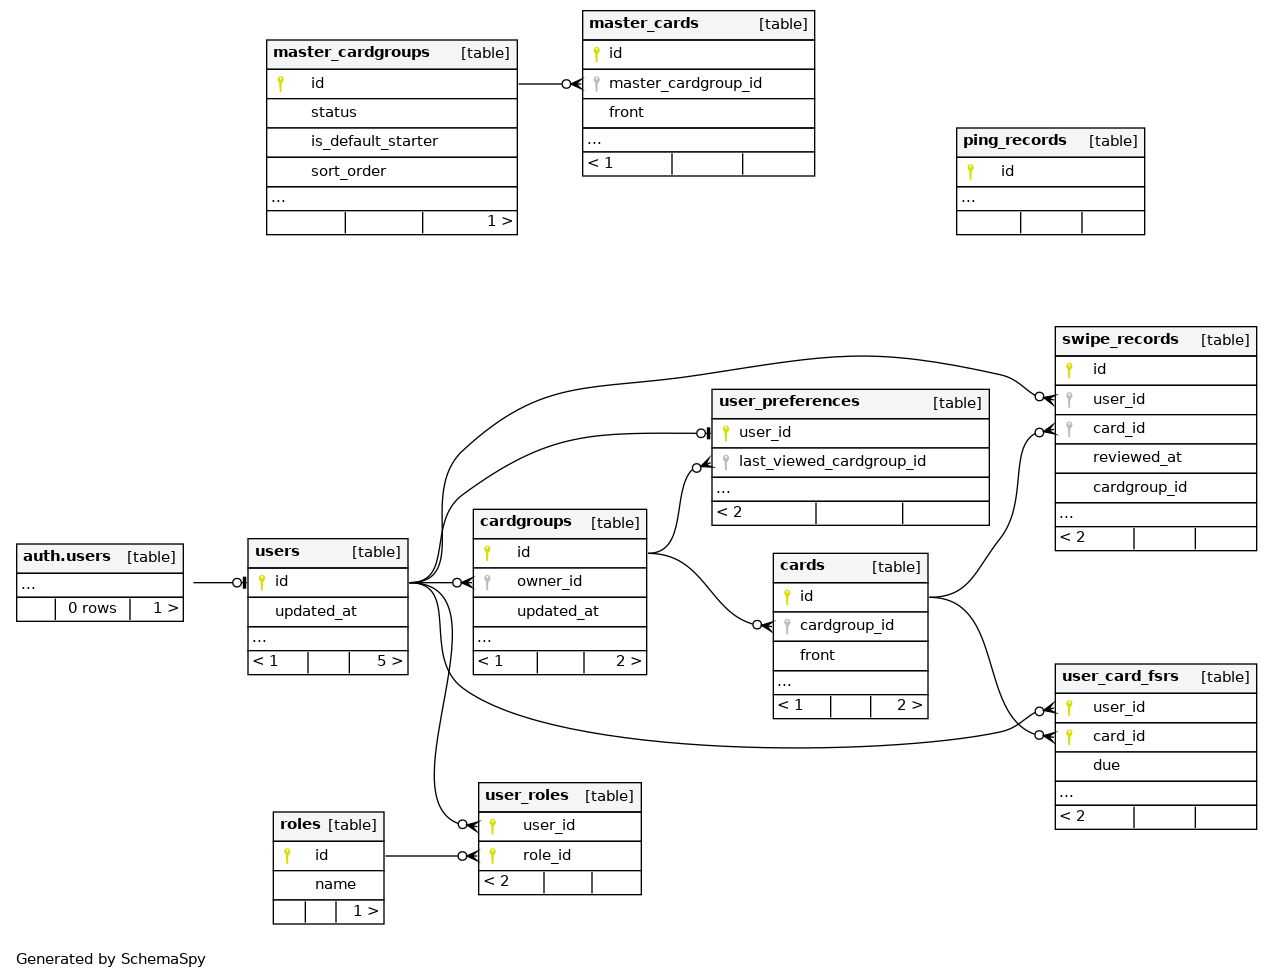
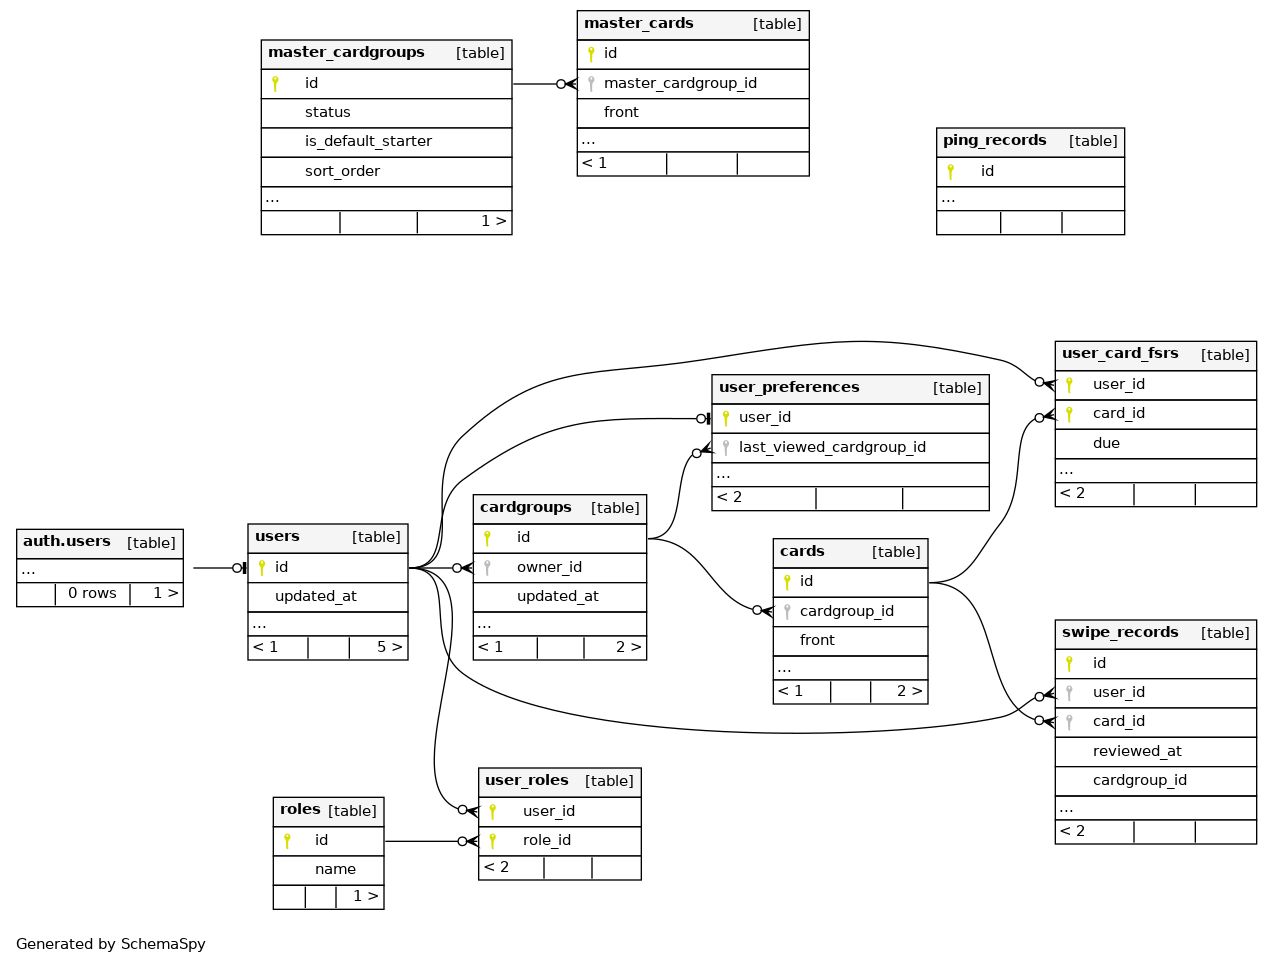
Deploying to gh-pages from @ yasuflatland-lf/flamingo-armond@d6e6fe769e655b9c6e9261a720e0daf4bc2132be 🚀

diff --git a/er-chart/relationships.html b/er-chart/relationships.html
@@ -93,35 +93,35 @@
                                 <div class="tab-content no-padding">
                                     <div class="chart tab-pane active" id="compactDegreeImg-chart" style="position: relative; overflow-x:auto;">
                                         <map id="compactRelationshipsDiagram" name="compactRelationshipsDiagram">
-<area shape="rect" id="node1" href="tables/master_cardgroups.html" target="_top" title="master_cardgroups" alt="" coords="256,35,528,240">
-<area shape="rect" id="node2" href="tables/cardgroups.html" target="_top" title="cardgroups" alt="" coords="463,504,657,680">
-<area shape="rect" id="node8" href="tables/users.html" target="_top" title="users" alt="" coords="237,533,419,680">
-<area shape="rect" id="node3" href="tables/roles.html" target="_top" title="roles" alt="" coords="262,807,394,929">
-<area shape="rect" id="node4" href="tables/user_card_fsrs.html" target="_top" title="user_card_fsrs" alt="" coords="1044,659,1267,835">
-<area shape="rect" id="node9" href="tables/cards.html" target="_top" title="cards" alt="" coords="763,548,939,724">
-<area shape="rect" id="node5" href="tables/swipe_records.html" target="_top" title="swipe_records" alt="" coords="1044,321,1267,556">
-<area shape="rect" id="node6" href="tables/user_preferences.html" target="_top" title="user_preferences" alt="" coords="701,384,1000,531">
-<area shape="rect" id="node7" href="tables/master_cards.html" target="_top" title="master_cards" alt="" coords="572,5,825,181">
-<area shape="rect" id="node12" title="auth.users" alt="" coords="5,539,193,627">
-<area shape="rect" id="node10" href="tables/ping_records.html" target="_top" title="ping_records" alt="" coords="945,123,1155,240">
-<area shape="rect" id="node11" href="tables/user_roles.html" target="_top" title="user_roles" alt="" coords="468,777,652,900">
+<area shape="rect" id="node1" href="tables/master_cardgroups.html" target="_top" title="master_cardgroups" alt="" coords="251,35,523,240">
+<area shape="rect" id="node2" href="tables/cardgroups.html" target="_top" title="cardgroups" alt="" coords="463,489,657,665">
+<area shape="rect" id="node8" href="tables/users.html" target="_top" title="users" alt="" coords="237,519,419,665">
+<area shape="rect" id="node3" href="tables/roles.html" target="_top" title="roles" alt="" coords="262,792,394,915">
+<area shape="rect" id="node4" href="tables/swipe_records.html" target="_top" title="swipe_records" alt="" coords="1044,615,1267,849">
+<area shape="rect" id="node9" href="tables/cards.html" target="_top" title="cards" alt="" coords="763,533,939,709">
+<area shape="rect" id="node5" href="tables/user_card_fsrs.html" target="_top" title="user_card_fsrs" alt="" coords="1044,336,1267,512">
+<area shape="rect" id="node6" href="tables/user_preferences.html" target="_top" title="user_preferences" alt="" coords="701,369,1000,516">
+<area shape="rect" id="node7" href="tables/master_cards.html" target="_top" title="master_cards" alt="" coords="567,5,820,181">
+<area shape="rect" id="node12" title="auth.users" alt="" coords="5,524,193,612">
+<area shape="rect" id="node10" href="tables/ping_records.html" target="_top" title="ping_records" alt="" coords="925,123,1135,240">
+<area shape="rect" id="node11" href="tables/user_roles.html" target="_top" title="user_roles" alt="" coords="468,763,652,885">
 </map>
                                         <a name='diagram'><img id="compactDegreeImg" src="diagrams/summary/relationships.real.compact.png" usemap="#compactRelationshipsDiagram" class="diagram" border="0" align="left"></a>
                                     </div>
                                     <div class="chart tab-pane " id="largeDegreeImg-chart" style="position: relative; overflow-x:auto;">
                                         <map id="largeRelationshipsDiagram" name="largeRelationshipsDiagram">
 <area shape="rect" id="node1" href="tables/master_cardgroups.html" target="_top" title="master_cardgroups" alt="" coords="5,35,277,509">
-<area shape="rect" id="node2" href="tables/cardgroups.html" target="_top" title="cardgroups" alt="" coords="463,899,657,1109">
-<area shape="rect" id="node8" href="tables/users.html" target="_top" title="users" alt="" coords="237,928,419,1197">
-<area shape="rect" id="node3" href="tables/roles.html" target="_top" title="roles" alt="" coords="262,1297,394,1420">
-<area shape="rect" id="node4" href="tables/user_card_fsrs.html" target="_top" title="user_card_fsrs" alt="" coords="1044,1184,1267,1629">
-<area shape="rect" id="node9" href="tables/cards.html" target="_top" title="cards" alt="" coords="763,945,939,1215">
-<area shape="rect" id="node5" href="tables/swipe_records.html" target="_top" title="swipe_records" alt="" coords="1044,656,1267,1160">
-<area shape="rect" id="node6" href="tables/user_preferences.html" target="_top" title="user_preferences" alt="" coords="701,747,1000,928">
+<area shape="rect" id="node2" href="tables/cardgroups.html" target="_top" title="cardgroups" alt="" coords="463,888,657,1099">
+<area shape="rect" id="node8" href="tables/users.html" target="_top" title="users" alt="" coords="237,917,419,1187">
+<area shape="rect" id="node3" href="tables/roles.html" target="_top" title="roles" alt="" coords="262,1287,394,1409">
+<area shape="rect" id="node4" href="tables/swipe_records.html" target="_top" title="swipe_records" alt="" coords="1044,1144,1267,1648">
+<area shape="rect" id="node9" href="tables/cards.html" target="_top" title="cards" alt="" coords="763,935,939,1204">
+<area shape="rect" id="node5" href="tables/user_card_fsrs.html" target="_top" title="user_card_fsrs" alt="" coords="1044,675,1267,1120">
+<area shape="rect" id="node6" href="tables/user_preferences.html" target="_top" title="user_preferences" alt="" coords="701,736,1000,917">
 <area shape="rect" id="node7" href="tables/master_cards.html" target="_top" title="master_cards" alt="" coords="321,5,575,275">
-<area shape="rect" id="node12" title="auth.users" alt="" coords="5,928,193,1051">
-<area shape="rect" id="node10" href="tables/ping_records.html" target="_top" title="ping_records" alt="" coords="725,357,935,509">
-<area shape="rect" id="node11" href="tables/user_roles.html" target="_top" title="user_roles" alt="" coords="468,1268,652,1391">
+<area shape="rect" id="node12" title="auth.users" alt="" coords="5,917,193,1040">
+<area shape="rect" id="node10" href="tables/ping_records.html" target="_top" title="ping_records" alt="" coords="737,357,947,509">
+<area shape="rect" id="node11" href="tables/user_roles.html" target="_top" title="user_roles" alt="" coords="468,1257,652,1380">
 </map>
                                         <a name='diagram'><img id="largeDegreeImg" src="diagrams/summary/relationships.real.large.png" usemap="#largeRelationshipsDiagram" class="diagram" border="0" align="left"></a>
                                     </div>

diff --git a/er-chart/constraints.html b/er-chart/constraints.html
@@ -122,42 +122,6 @@
                                         <td><span title='Cascade on delete:&#10;Deletion of parent deletes child'>Cascade on delete</span></td>
                                     </tr>
                                     <tr>
-                                        <td>user_card_fsrs_card_id_fkey</td>
-                                        <td>
-                                            <table border='0' cellspacing='0' cellpadding='0'>
-                                                <tr>
-                                                    <td><a href='tables/user_card_fsrs.html'>user_card_fsrs</a><span>.card_id</span></td>
-                                                </tr>
-                                            </table>
-                                        </td>
-                                        <td>
-                                            <table border='0' cellspacing='0' cellpadding='0'>
-                                                <tr>
-                                                    <td><a href='tables/cards.html'>cards</a><span>.id</span></td>
-                                                </tr>
-                                            </table>
-                                        </td>
-                                        <td><span title='Cascade on delete:&#10;Deletion of parent deletes child'>Cascade on delete</span></td>
-                                    </tr>
-                                    <tr>
-                                        <td>user_card_fsrs_user_id_fkey</td>
-                                        <td>
-                                            <table border='0' cellspacing='0' cellpadding='0'>
-                                                <tr>
-                                                    <td><a href='tables/user_card_fsrs.html'>user_card_fsrs</a><span>.user_id</span></td>
-                                                </tr>
-                                            </table>
-                                        </td>
-                                        <td>
-                                            <table border='0' cellspacing='0' cellpadding='0'>
-                                                <tr>
-                                                    <td><a href='tables/users.html'>users</a><span>.id</span></td>
-                                                </tr>
-                                            </table>
-                                        </td>
-                                        <td><span title='Cascade on delete:&#10;Deletion of parent deletes child'>Cascade on delete</span></td>
-                                    </tr>
-                                    <tr>
                                         <td>swipe_records_user_id_fkey</td>
                                         <td>
                                             <table border='0' cellspacing='0' cellpadding='0'>
@@ -188,6 +152,42 @@
                                             <table border='0' cellspacing='0' cellpadding='0'>
                                                 <tr>
                                                     <td><a href='tables/cards.html'>cards</a><span>.id</span></td>
+                                                </tr>
+                                            </table>
+                                        </td>
+                                        <td><span title='Cascade on delete:&#10;Deletion of parent deletes child'>Cascade on delete</span></td>
+                                    </tr>
+                                    <tr>
+                                        <td>user_card_fsrs_card_id_fkey</td>
+                                        <td>
+                                            <table border='0' cellspacing='0' cellpadding='0'>
+                                                <tr>
+                                                    <td><a href='tables/user_card_fsrs.html'>user_card_fsrs</a><span>.card_id</span></td>
+                                                </tr>
+                                            </table>
+                                        </td>
+                                        <td>
+                                            <table border='0' cellspacing='0' cellpadding='0'>
+                                                <tr>
+                                                    <td><a href='tables/cards.html'>cards</a><span>.id</span></td>
+                                                </tr>
+                                            </table>
+                                        </td>
+                                        <td><span title='Cascade on delete:&#10;Deletion of parent deletes child'>Cascade on delete</span></td>
+                                    </tr>
+                                    <tr>
+                                        <td>user_card_fsrs_user_id_fkey</td>
+                                        <td>
+                                            <table border='0' cellspacing='0' cellpadding='0'>
+                                                <tr>
+                                                    <td><a href='tables/user_card_fsrs.html'>user_card_fsrs</a><span>.user_id</span></td>
+                                                </tr>
+                                            </table>
+                                        </td>
+                                        <td>
+                                            <table border='0' cellspacing='0' cellpadding='0'>
+                                                <tr>
+                                                    <td><a href='tables/users.html'>users</a><span>.id</span></td>
                                                 </tr>
                                             </table>
                                         </td>

diff --git a/er-chart/index.html b/er-chart/index.html
@@ -78,7 +78,7 @@
                         <div class="col-md-12">
                             <div class="callout callout-info">
                                 <h4>SchemaSpy Analysis of armond.public</h4>
-                                <p>Generated on Sat Jun 13 11:55 UTC 2026</p>
+                                <p>Generated on Sat Jun 13 22:18 UTC 2026</p>
                             </div>
                         </div>
                     </div>
@@ -233,19 +233,19 @@
                                         <td class="comment detail" style="display: table-cell;"></td>
                                     </tr>
                                     <tr class="tbl even" valign="top">
-                                        <td class="detail"><a href="tables/user_card_fsrs.html">user_card_fsrs</a></td>
+                                        <td class="detail"><a href="tables/swipe_records.html">swipe_records</a></td>
                                         <td class="detail" align="right">0</td>
                                         <td class="detail" align="right">2</td>
-                                        <td class="detail" align="right">13</td>
+                                        <td class="detail" align="right">15</td>
                                         <td class="detail" align="right">-1</td>
                                         <td class="detail" align="right">Table</td>
                                         <td class="comment detail" style="display: table-cell;"></td>
                                     </tr>
                                     <tr class="tbl even" valign="top">
-                                        <td class="detail"><a href="tables/swipe_records.html">swipe_records</a></td>
+                                        <td class="detail"><a href="tables/user_card_fsrs.html">user_card_fsrs</a></td>
                                         <td class="detail" align="right">0</td>
                                         <td class="detail" align="right">2</td>
-                                        <td class="detail" align="right">15</td>
+                                        <td class="detail" align="right">13</td>
                                         <td class="detail" align="right">-1</td>
                                         <td class="detail" align="right">Table</td>
                                         <td class="comment detail" style="display: table-cell;"></td>

diff --git a/er-chart/tables/master_cards.html b/er-chart/tables/master_cards.html
@@ -309,12 +309,12 @@
                                 </thead>
                                 <tbody>
                                 <tr>
-                                    <td>master_cards_front_length</td>
-                                    <td>((char_length(TRIM(BOTH FROM front)) &gt;&#61; 1) AND (char_length(TRIM(BOTH FROM front)) &lt;&#61; 500))</td>
-                                </tr>
-                                <tr>
                                     <td>master_cards_back_length</td>
                                     <td>((char_length(TRIM(BOTH FROM back)) &gt;&#61; 1) AND (char_length(TRIM(BOTH FROM back)) &lt;&#61; 500))</td>
+                                </tr>
+                                <tr>
+                                    <td>master_cards_front_length</td>
+                                    <td>((char_length(TRIM(BOTH FROM front)) &gt;&#61; 1) AND (char_length(TRIM(BOTH FROM front)) &lt;&#61; 500))</td>
                                 </tr>
                                 </tbody>
                             </table>

diff --git a/er-chart/tables/user_card_fsrs.html b/er-chart/tables/user_card_fsrs.html
@@ -376,6 +376,12 @@
                                     <td>user_id + card_id</td>
                                 </tr>
                                 <tr>
+                                    <td title='Indexed'>idx_user_card_fsrs_card_id</td>
+                                    <td>Performance</td>
+                                    <td><span title='Ascending'>Asc</span></td>
+                                    <td>card_id</td>
+                                </tr>
+                                <tr>
                                     <td title='Indexed'>idx_user_card_fsrs_user_due</td>
                                     <td>Performance</td>
                                     <td><span title='Ascending'>Asc</span>/<span title='Ascending'>Asc</span></td>
